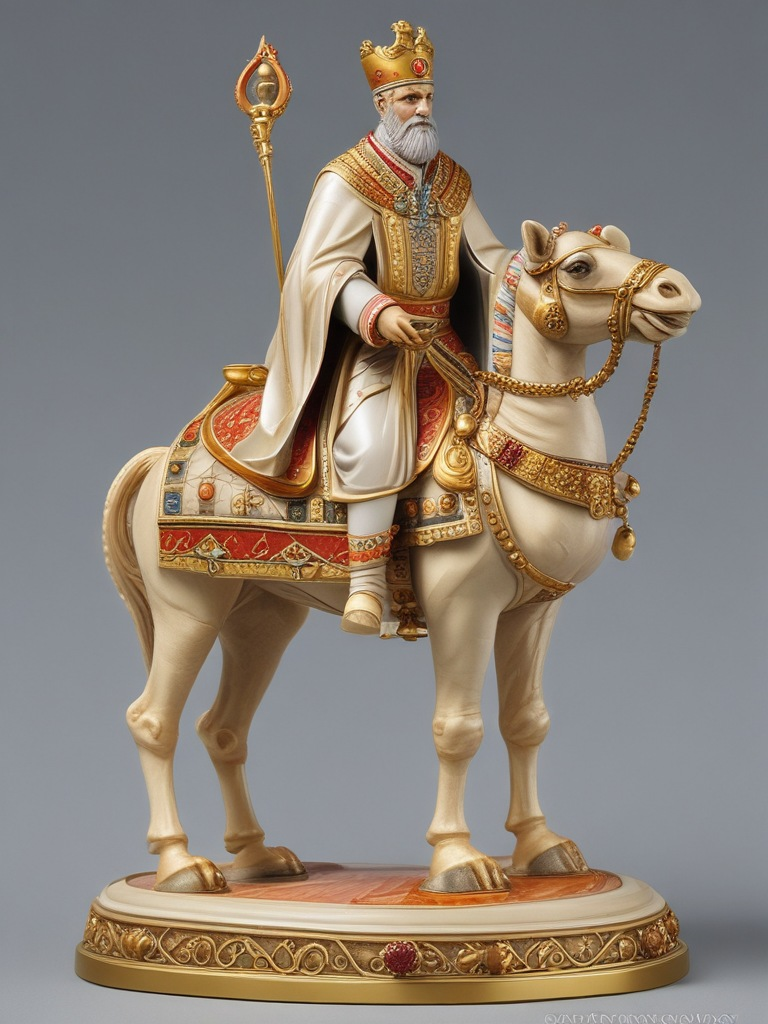
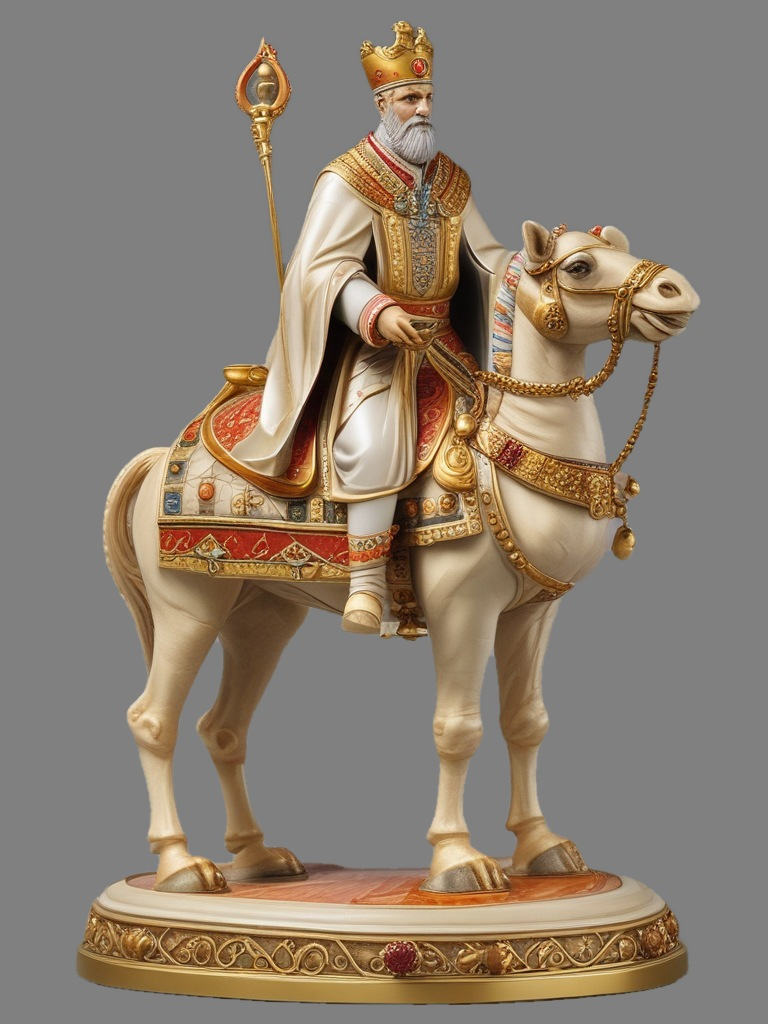
Royal Army: hero pictures on flat grey with their outlines, and the set module
The twelve pictures of the blended design are re-saved with each figure alone on
flat mid-grey (the words-made originals had studio backdrops that hero.cutout
cannot cut), with the outline of each beside it so the gaps between an animal's
legs stay open. Two picture fixes: the white elephant had two trunks, and the
dark army's camel is recast in black marble so the armies tell apart.

sets/army.py turns each plinth (oval under the animals), paints its top, and
carves the figure with a depth that follows its local thickness, so a head is
a ball and a leg a rod instead of a deep blade that smears its edge.

Claude-Session: https://claude.ai/code/session_016z3Tz2K9jaDpoEU2rbSPvY

diff --git a/apps/web-prototype/tools/model/sets/army.py b/apps/web-prototype/tools/model/sets/army.py
@@ -1,0 +1,168 @@
+"""The Royal Army: an Indian court at war. Ivory marble with saffron enamel and rubies against
+black marble with indigo enamel and emeralds, all inlaid with polished gold. A bearded king
+with his sceptre, a queen in a flowing gown, camel riders for bishops, horsemen for knights,
+war elephants for rooks and foot soldiers for pawns.
+
+Hero set with no reference picture: the twelve pictures in pics/army are the blended design the
+owner chose on 2026-11-13 ("the clarity of A, material and shine of B and the premiumness of C").
+Each picture has its outline beside it (pics/army/<side>-<type>.mask.png), drawn with Segment
+Anything, so the gaps between an animal's legs stay open in the model.
+
+Every piece stands on a turned plinth (true 3D from every side) whose top is painted from the
+plinth top in the picture; the figure above it is carved from its picture. The riders' animals
+stand side on, as they do in the pictures, on oval plinths, so both players see the whole
+camel, horse and elephant."""
+import copy
+import math
+import os
+
+import cv2
+import numpy as np
+
+import kit
+
+HERE = os.path.join(os.path.dirname(os.path.abspath(__file__)), '..', 'pics', 'army')
+# heights in game units, chosen so that no piece is wider than its square (the animals are long)
+HEIGHT = {'k': 1.75, 'q': 1.57, 'b': 1.35, 'n': 1.31, 'r': 1.29, 'p': 1.1}
+HALF = {t: 'full' for t in 'kqbnrp'}
+SIDED = set('kqbnrp')
+GOLD = (58, 160, 228)
+LOOK = {
+    'w': {'wb': (1.03, 1.0, 0.98), 'body': 'marble', 'gold': 'gold', 'gem': 'gem', 'gold_tone': GOLD, 'gold_mix': 0.45,
+          'classify': {'gold': (30, 62), 'gold_sat': 0.55, 'gold_val': 0.5}},
+    'b': {'wb': (1.0, 1.0, 1.0), 'body': 'enamel', 'gold': 'gold', 'gem': 'gem', 'gold_tone': GOLD, 'gold_mix': 0.45,
+          'classify': {'gold': (26, 62), 'gold_sat': 0.55, 'gold_val': 0.45}},
+}
+# z0: the plinth's top (the widest row of its rim in the picture), as a fraction of the piece's
+# height. oval: the plinth's depth as a fraction of its length (the animals' plinths are long).
+# deep: the most a figure swells either side of its middle (0.25 where not given).
+SPEC = {
+    'w': {
+        'k': {'z0': 0.110},
+        'q': {'z0': 0.095},
+        'b': {'z0': 0.075, 'oval': 0.64},
+        'n': {'z0': 0.185, 'oval': 0.7},
+        'r': {'z0': 0.175, 'oval': 0.66},
+        'p': {'z0': 0.190},
+    },
+    'b': {
+        'k': {'z0': 0.105},
+        'q': {'z0': 0.115},
+        'b': {'z0': 0.095, 'oval': 0.64},
+        'n': {'z0': 0.185, 'oval': 0.7},
+        'r': {'z0': 0.175, 'oval': 0.66},
+        'p': {'z0': 0.200},
+    },
+}
+
+
+def refs():
+    out = {}
+    for side in 'wb':
+        out[side] = {}
+        for t in 'kqbnrp':
+            path = os.path.join(HERE, '%s-%s.jpg' % (side, t))
+            m = (cv2.imread(os.path.join(HERE, '%s-%s.mask.png' % (side, t)), 0) > 127).astype(np.uint8) * 255
+            ys, xs = np.nonzero(m)
+            x0, y0, x1, y1 = int(xs.min()), int(ys.min()), int(xs.max()) + 1, int(ys.max()) + 1
+            pad = 14
+            X0, Y0 = max(0, x0 - pad), max(0, y0 - pad)
+            X1, Y1 = min(m.shape[1], x1 + pad), min(m.shape[0], y1 + pad)
+            r = kit.Ref(path, (x0, y0, x1, y1), mask=m[Y0:Y1, X0:X1], unit=1.0, foot=0, pad=pad)
+            r.unit = HEIGHT[t] / max(r.height(), 1e-6)
+            r.side = side
+            out[side][t] = r
+    return out
+
+
+def tilt(r, zc):
+    """how much the picture looks down on the plinth: the height of half the top's ellipse over
+    its half width, measured on the plinth's bottom edge (lowest in the middle, full width where
+    the ellipse of the foot is widest)"""
+    wmax = max(r.width(z) for z in np.arange(0.0, zc, r.unit))
+    for z in np.arange(0.0, zc, r.unit):
+        if r.width(z) >= 0.965 * wmax:
+            return float(np.clip(z / max(wmax, 1e-6), 0.06, 0.2))
+    return 0.13
+
+
+def plinth(r, t, zc, eh, oval):
+    """the turned plinth up to just under its top. The top is painted as rings of the rim just
+    under its front edge: the picture's own plinth top is mostly hidden by feet, hooves and hems"""
+    import bpy
+    zl = zc - 0.4 * eh
+    base = kit.lathe('base', r.profile(0, zl))
+    kit.set_uv(base, t, fold=4)
+    me = base.data
+    uvl = me.uv_layers[0].data
+    R = max(r.width(zc), 1e-6)
+    ztop = max(v.co.z for v in me.vertices)
+    for poly in me.polygons:
+        if poly.normal.z < 0.9 or poly.center.z < ztop - 1e-5:
+            continue
+        for li in poly.loop_indices:
+            co = me.vertices[me.loops[li].vertex_index].co
+            rho = math.hypot(co.x, co.y)
+            a = kit.fold_angle(math.atan2(co.x, -co.y), 8)
+            uvl[li].uv = kit.cell_uv(t, 0.35 * rho * math.sin(a), zc - eh * (1.9 - 0.8 * min(1.0, rho / R)))
+    if oval:
+        base.scale = (1.0, oval, 1.0)
+        bpy.context.view_layer.update()
+    return base
+
+
+def figure_ref(r, zc, eh):
+    """the picture's outline without the plinth's top: in the band where the top shows, only
+    the columns that carry the figure down from above are kept (feet, hooves, a gown's hem)"""
+    rf = copy.copy(r)
+    m = r.mask.copy()
+    row = lambda z: int(round(r.bot - z / r.unit))
+    top, bot = row(zc + 1.15 * eh), row(zc - 0.4 * eh)
+    sup = cv2.dilate(m[max(top - 2, 0):top + 1].max(0)[None, :], np.ones((1, 2 * max(2, int(0.012 / r.unit)) + 1), np.uint8))[0]
+    m[top:bot + 1] &= sup[None, :]
+    rf.mask = m
+    return rf
+
+
+def carve(name, rf, z0, cap, deep=0.92):
+    """the figure swollen from its outline as a sculptor rounds it: every part is as deep as it
+    is wide (a head a ball, a leg or a staff a rod, the body a barrel), up to `cap` either side
+    of the middle. kit.relief's own swell makes thin parts as deep as thick ones (a leg becomes
+    a blade and smears its edge along it), so the depth is worked out here and handed to it."""
+    from scipy.ndimage import distance_transform_edt, gaussian_filter
+    m = rf.mask > 127
+    m[int(round(rf.bot - z0 / rf.unit)):] = False
+    dt = distance_transform_edt(m)
+    # the radius of the widest disc inside the outline that covers each pixel (local thickness)
+    R = np.zeros(dt.shape, np.float32)
+    for r in np.geomspace(max(dt.max(), 2.0), 1.0, 56):
+        core = dt >= r
+        if core.any():
+            cover = (distance_transform_edt(~core) <= r) & m & (R == 0)
+            R[cover] = r
+    R[m & (R == 0)] = 1.0
+    w = gaussian_filter(m.astype(np.float32), 2.0) + 1e-6
+    R = np.maximum(gaussian_filter(R * m, 2.0) / w, dt)
+    half = np.sqrt(np.clip(dt * (2 * R - dt), 0, None)) * rf.unit * deep
+    half = (cap * np.tanh(half / cap)).astype(np.float32)
+    thick = 2 * cap + 0.02
+
+    def taper(X, Z):
+        mx = (rf.axis + X / rf.unit).astype(np.float32)
+        my = (rf.bot - Z / rf.unit).astype(np.float32)
+        return cv2.remap(half, mx, my, cv2.INTER_LINEAR, borderValue=0) / (thick / 2)
+    ob = kit.relief(name, rf, z0, thick=thick, power=1e-9, taper=taper, use_tsr=False)
+    return ob
+
+
+def build(t, refs):
+    r = refs['w']
+    r.t = t
+    sp = SPEC[r.side][t]
+    h = r.height()
+    zc = sp['z0'] * h
+    eh = tilt(r, zc) * r.width(zc)
+    base = plinth(r, t, zc, eh, sp.get('oval'))
+    fig = carve('figure', figure_ref(r, zc, eh), zc - 0.4 * eh - 0.02, sp.get('deep', 0.25))
+    kit.set_uv(fig, t, mode='front', fold=0)
+    return kit.join([base, fig], t)
